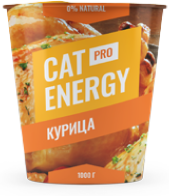
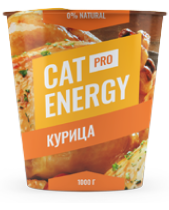
fix: Add card img max-height, field input minwidth

diff --git a/source/catalog.html b/source/catalog.html
@@ -93,7 +93,7 @@
               <picture>
                 <source type="image/webp" media="(min-width: 1440px)"
                   srcset="img/products/pro-chicken-1000-desktop.webp, img/products/pro-chicken-1000-desktop@2x.webp 2x"
-                  width="172" height="196">
+                  width="169" height="210">
                 <source type="image/webp" media="(min-width: 768px)"
                   srcset="img/products/pro-chicken-1000-tablet.webp, img/products/pro-chicken-1000-tablet@2x.webp 2x"
                   width="168" height="206">
@@ -103,7 +103,7 @@
 
                 <source media="(min-width: 1440px)"
                   srcset="img/products/pro-chicken-1000-desktop.png, img/products/pro-chicken-1000-desktop@2x.png 2x"
-                  width="172" height="196">
+                  width="169" height="210">
                 <source media="(min-width: 768px)"
                   srcset="img/products/pro-chicken-1000-tablet.png, img/products/pro-chicken-1000-tablet@2x.png 2x"
                   width="168" height="206">
@@ -161,7 +161,7 @@
               <picture>
                 <source type="image/webp" media="(min-width: 1440px)"
                   srcset="img/products/pro-fish-1000-desktop.webp, img/products/pro-fish-1000-desktop@2x.webp 2x"
-                  width="172" height="196">
+                  width="169" height="210">
                 <source type="image/webp" media="(min-width: 768px)"
                   srcset="img/products/pro-fish-1000-tablet.webp, img/products/pro-fish-1000-tablet@2x.webp 2x"
                   width="168" height="200">
@@ -171,7 +171,7 @@
 
                 <source media="(min-width: 1440px)"
                   srcset="img/products/pro-fish-1000-desktop.png, img/products/pro-fish-1000-desktop@2x.png 2x"
-                  width="172" height="196">
+                  width="169" height="210">
                 <source media="(min-width: 768px)"
                   srcset="img/products/pro-fish-1000-tablet.png, img/products/pro-fish-1000-tablet@2x.png 2x"
                   width="168" height="200">
@@ -229,7 +229,7 @@
               <picture>
                 <source type="image/webp" media="(min-width: 1440px)"
                   srcset="img/products/slim-buckwheat-1000-desktop.webp, img/products/slim-buckwheat-1000-desktop@2x.webp 2x"
-                  width="172" height="196">
+                  width="169" height="210">
                 <source type="image/webp" media="(min-width: 768px)"
                   srcset="img/products/slim-buckwheat-1000-tablet.webp, img/products/slim-buckwheat-1000-tablet@2x.webp 2x"
                   width="168" height="200">
@@ -239,7 +239,7 @@
 
                 <source media="(min-width: 1440px)"
                   srcset="img/products/slim-buckwheat-1000-desktop.png, img/products/slim-buckwheat-1000-desktop@2x.png 2x"
-                  width="172" height="196">
+                  width="169" height="210">
                 <source media="(min-width: 768px)"
                   srcset="img/products/slim-buckwheat-1000-tablet.png, img/products/slim-buckwheat-1000-tablet@2x.png 2x"
                   width="168" height="200">

diff --git a/source/js/early/header.js b/source/js/early/header.js
@@ -14,19 +14,15 @@ function activateMenu() {
     header.classList.toggle('header--js-menu_opened');
     if (header.classList.contains('header--js-menu_opened')) {
       menuToggleText.textContent = 'Закрыть меню';
-    }
-    else if (header.classList.contains('header--js-menu_closed')) {
+    } else if (header.classList.contains('header--js-menu_closed')) {
       menuToggleText.textContent = 'Открыть меню';
-    }
-    else {
-      console.log('Ошибка классов кнопки меню в header');
     }
   };
 }
 
 // MutationObserver, запускающий функцию активации меню после начального построения DOM
-let observer = new MutationObserver(function (mutations) {
-  mutations.forEach(function (mutation) {
+const observer = new MutationObserver((mutations) => {
+  mutations.forEach((mutation) => {
     // Проверяем появление в DOM кнопки меню с её visually-hidden содержимым
     if (mutation.target.classList.contains('visually-hidden')) {
       // Отключаем наблюдение и вызываем функцию активации меню

diff --git a/source/sass/blocks/card.scss b/source/sass/blocks/card.scss
@@ -178,17 +178,21 @@ $card-list-width: 316px;
 }
 
 .card__image-link {
+  --height-link-phone: 107px;
+  --height-link-tablet: 210px;
+
   display: flex;
   grid-area: 1 / 1 / 3 / 2;
   justify-content: center;
   align-items: center;
+  align-self: center;
   width: 140px;
-  min-height: 107px;
+  height: var(--height-link-phone);
 
   @media (width >= $width-tablet) {
     order: -1;
     width: 200px;
-    height: 210px;
+    height: var(--height-link-tablet);
   }
 
   @media (width >= $width-desktop) {
@@ -209,6 +213,11 @@ $card-list-width: 316px;
 .card__image {
   display: block;
   object-fit: scale-down;
+  max-height: var(--height-link-phone);
+
+  @media (width >= $width-tablet) {
+    max-height: var(--height-link-tablet);
+  }
 }
 
 .card__list {
@@ -241,6 +250,10 @@ $card-list-width: 316px;
       column-gap: 20px;
       min-width: $card-list-width;
       margin-bottom: 0;
+    }
+
+    @media (width >= $width-desktop) {
+      padding-top: 13px;
     }
   }
 }
@@ -337,6 +350,7 @@ $card-list-width: 316px;
 
     @media (width >= $width-desktop) {
       grid-column: auto;
+      align-self: center;
     }
   }
 }

diff --git a/source/sass/blocks/field.scss b/source/sass/blocks/field.scss
@@ -3,12 +3,13 @@
 .field {
   position: relative;
   display: grid;
-  grid-template-columns: auto 1fr;
+  grid-template-columns: auto minmax(217px, 1fr);
   column-gap: 13px;
   align-items: center;
   text-transform: uppercase;
 
   @media (width >= $width-tablet) {
+    grid-template-columns: auto minmax(50%, 1fr);
     font-size: 20px;
     line-height: 30px;
   }
@@ -64,7 +65,6 @@
 .field__input {
   grid-area: 1 / 2 / 2 / 3;
   width: 100%;
-  min-width: 80px;
   padding: 13px 14px 12px;
 
   font-family: var(--font-primary);
@@ -103,20 +103,15 @@
 
   .field--icon_mail &,
   .field--icon_phone & {
-    min-width: 200px;
     padding-right: 44px;
 
     @media (width >= $width-tablet) {
-      min-width: 240px;
       padding-right: 60px;
     }
   }
 
   .field--icon_mail & {
-    min-width: 217px;
-
     @media (width >= $width-tablet) {
-      min-width: 280px;
       padding-right: 60px;
     }
   }

diff --git a/source/sass/blocks/nav.scss b/source/sass/blocks/nav.scss
@@ -45,7 +45,7 @@
   color: var(--color-font-second);
 
   @media (width >= $width-tablet) {
-    padding: 15px 0;
+    padding: 14px 0 16px;
     font-size: 18px;
     line-height: 24px;
     text-align: start;
@@ -55,19 +55,18 @@
       display: block;
       width: calc(100% - $thickness-underline);
       margin: 0 auto;
-      box-shadow: 0 6px 0 math.div($thickness-underline, 2) var(--color-bd-link);
+      box-shadow: 0 7px 0 math.div($thickness-underline, 2) var(--color-bd-link);
 
       .header--index & {
-        box-shadow: 0 8px 0 math.div($thickness-underline, 2) var(--color-bd-link);
+        box-shadow: 0 9px 0 math.div($thickness-underline, 2) var(--color-bd-link);
       }
     }
   }
 
   @media (width >= $width-desktop) {
-    padding-block: 17px;
+    padding-block: 16px 18px;
     font-size: 20px;
     line-height: 30px;
-
 
     .header--index & {
       color: var(--color-font-bg);

diff --git a/source/js/early/check-webp.js b/source/js/early/check-webp.js
@@ -2,7 +2,7 @@
 Размещён перед <link rel="stylesheet">, чтобы инициализироваться до применения стилей. */
 
 function checkWebP(callback) {
-  let webP = new Image();
+  const webP = new Image();
 
   const event = () => {
     callback(webP.height === 2);
@@ -17,7 +17,7 @@ function checkWebP(callback) {
 }
 
 // Убирает в случае поддержки браузером формата WebP класс no-webp у тега html и добавляет webp
-checkWebP(function (support) {
+checkWebP((support) => {
   if (support) {
     document.documentElement.classList.remove('no-webp');
     document.documentElement.classList.add('webp');

diff --git a/gulpfile.js b/gulpfile.js
@@ -164,7 +164,7 @@ const reload = (done) => {
 
 const watcher = () => {
   gulp.watch('source/sass/**/*.scss', gulp.series(styles));
-  gulp.watch('source/js/*.js', gulp.series(scripts));
+  gulp.watch('source/js/**/*.js', gulp.series(scripts));
   gulp.watch('source/*.html', gulp.series(html, reload));
 }
 

diff --git a/source/sass/blocks/example.scss b/source/sass/blocks/example.scss
@@ -8,6 +8,7 @@
   @media (width >= $width-tablet) {
     display: grid;
     grid-template-columns: 70% 1fr;
+    align-items: start;
     padding-block: 45px 0;
     background-color: unset;
     background-image: linear-gradient(to top, var(--color-bg-example) 462px, var(--color-bg-basic) 462px);

diff --git a/source/sass/blocks/header.scss b/source/sass/blocks/header.scss
@@ -67,7 +67,7 @@
     column-gap: 13px;
     justify-content: start;
     width: max-content;
-    margin-right: 32px;
+    margin-right: 50px;
     padding: 0;
     outline-offset: 0;
   }

diff --git a/source/sass/blocks/socials.scss b/source/sass/blocks/socials.scss
@@ -8,7 +8,7 @@
   column-gap: 8px;
   width: fit-content;
   max-width: 262px;
-  margin: 0 auto;
+  margin-inline: auto;
   padding-block: 7px 6px;
 
   @media (width >= $width-tablet) {
